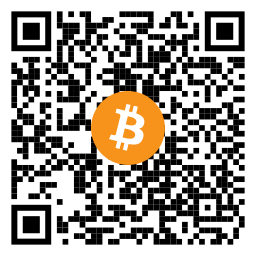
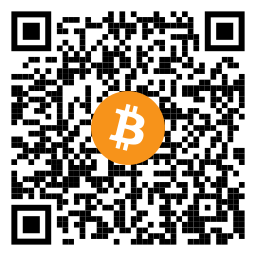
fix: donate

diff --git a/README.md b/README.md
@@ -75,7 +75,7 @@ If you wish to support our project, please consider a donation
 
 [![bitcoin-donate](./assets/btc-donate.png)](https://explorer.btc.com/btc/address/bc1qql247l894ahqvd5affjk69mrf49dcnxg7c0l74)
 
-`bc1qql247l894ahqvd5affjk69mrf49dcnxg7c0l74`
+`bc1qma8r6pwr6nw7c0zeqlx4a86hmyax2l02ppmx23`
 
 ## The Lightning Node
 
